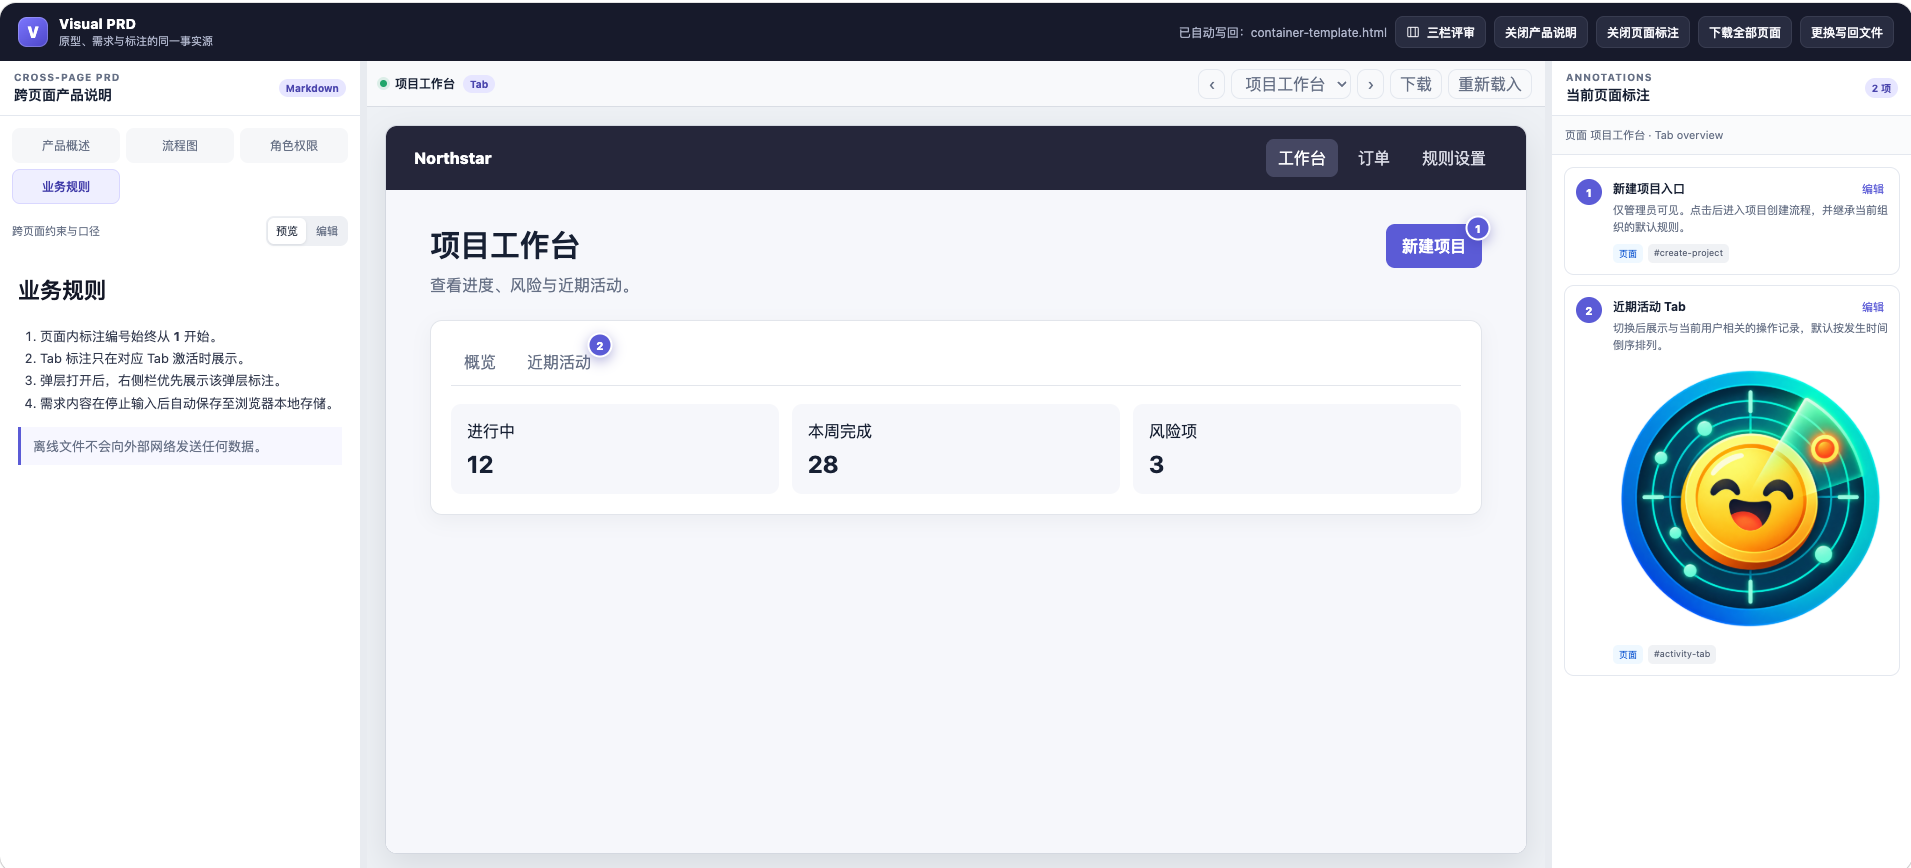
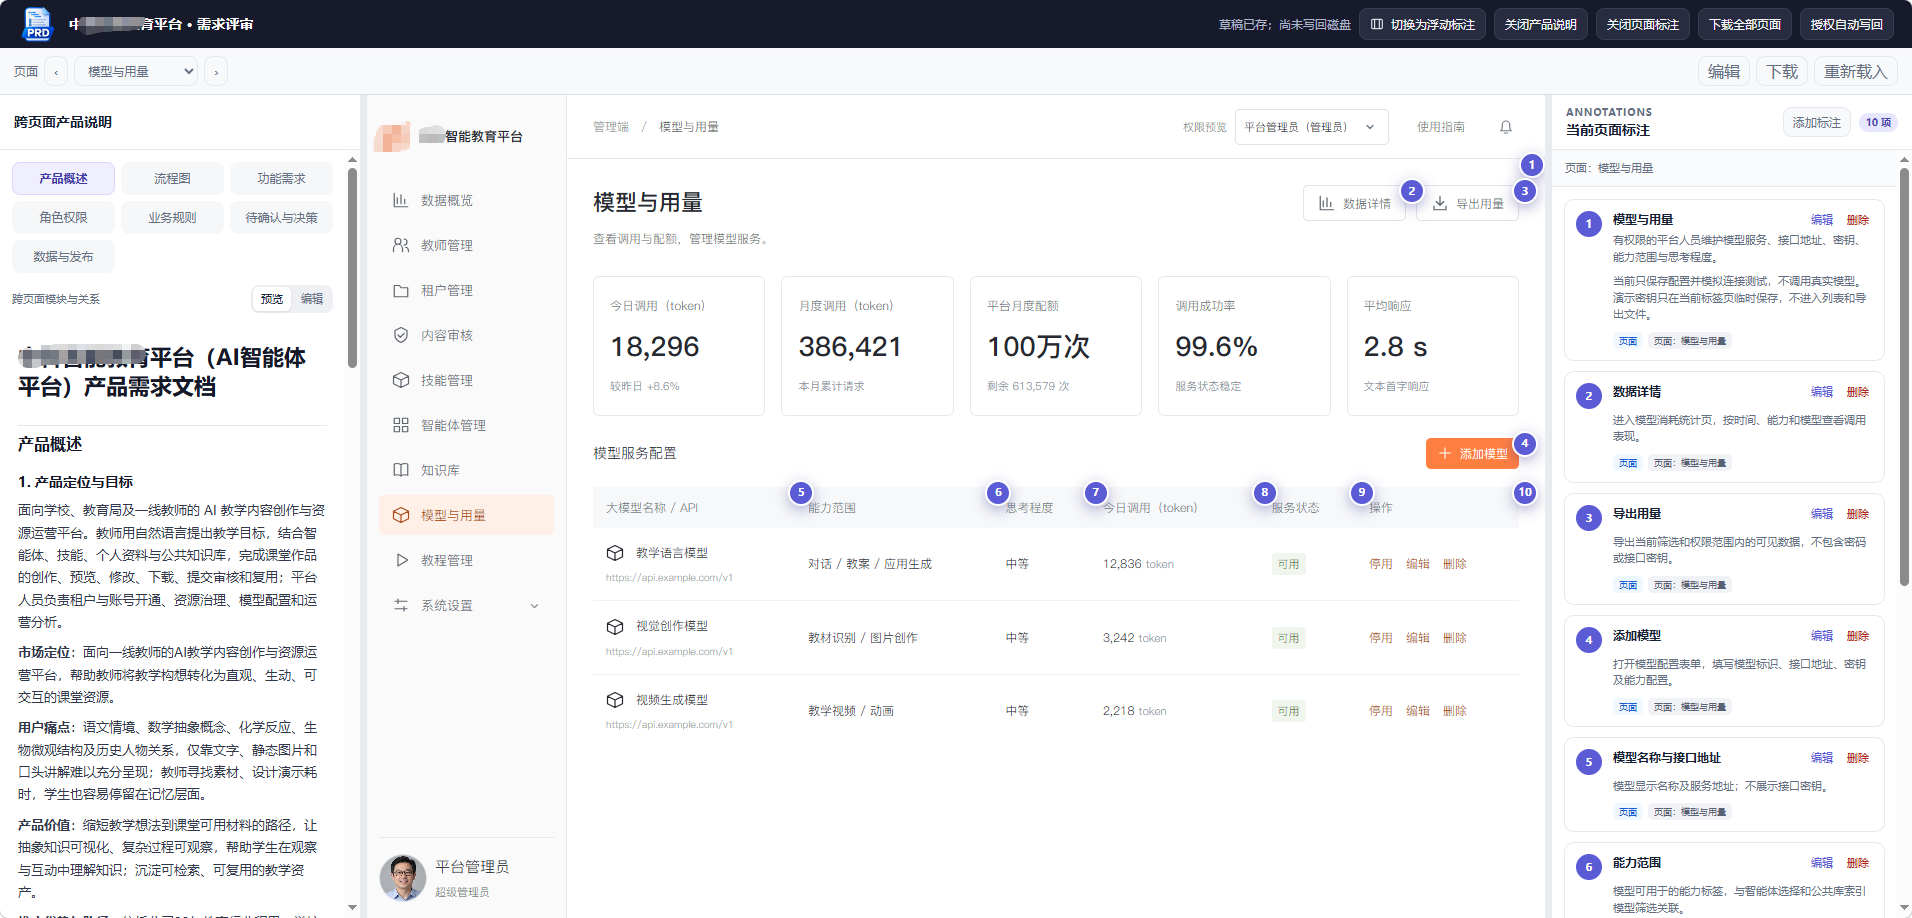
更新 README：替换用户提供的模型与用量评审截图

diff --git a/README.md b/README.md
@@ -44,9 +44,9 @@
 
 ![Visual PRD 三栏评审界面](docs/screenshots/visual-prd-overview.png)
 
-这张截图由用户提供，展示左侧跨页面产品说明、中间可交互原型、右侧当前页面标注，以及顶部的栏位开关、页面下载和磁盘写回入口。右侧标注支持文字编辑和图片展示。
+这张截图由用户提供，展示左侧跨页面产品说明、中间可交互原型、右侧当前页面标注，以及顶部的栏位开关、页面下载和磁盘写回入口。右侧可添加、编辑、删除标注，数字圆点与原型位置对应。
 
-图中的“项目工作台”用于展示评审容器的界面；仓库附带的 4.2.4 可运行演示为“任务看板”，包含任务列表、详情标签和创建弹层。截图用于展示容器布局，不是 4.2.4 演示的截图。
+截图展示“模型与用量”页面，用于说明评审容器的布局和标注方式；仓库附带的可运行演示为“任务看板”，包含任务列表、详情标签和创建弹层。
 
 ## 快速体验
 
